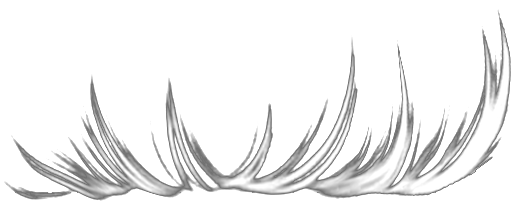
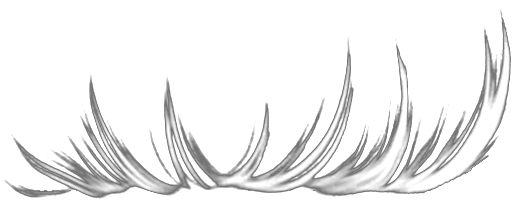
fix(ar): 글램 2.0 v16 — 꼬리 발산 해소(탈출 레일 하향 12° + 끝 기둥 테이퍼)
- v15 진단: rot_scale(텍스처 회전)은 잘못된 손잡이(70↔90% 차이 7°, 육안 무변별)
- 발산의 지배 요인 = 렌더러 꼬리 기하: 얕은 탈출 레일(출발점 높음) + 바깥-위 기둥
  + 풀 길이 → TailExitDropTan 0.21(하향 12°) + TailTaperCols 4(끝 기둥 0.55~1 점감)
- 텍스처는 rot 90% 산출본 유지(rootV 0.045), rot_scale 손잡이는 추출기에 보존

diff --git a/apps/unity/MakeupAR/Assets/Scripts/MediaPipeGraft/ARwithFable/Face/LashRenderer.cs b/apps/unity/MakeupAR/Assets/Scripts/MediaPipeGraft/ARwithFable/Face/LashRenderer.cs
@@ -125,7 +125,11 @@ namespace ARMakeup.Face
         // 텍스처의 뿌리줄은 v=rootV(추출기 lash_extract.py 사이드카 JSON의 rootV)이고,
         // 리본을 눈 라인 밖으로 len×rootV만큼 연장해 그 줄이 정확히 눈 라인에 오게 한다.
         // 재추출 시 사이드카 값으로 갱신할 것(tools/glam2-lash/out/lash_glam_*.json).
-        const float UpperTexRootV = 0.0446f; // 0723 위 초록선(펜연장 32°)+국소 회전 재산출값
+        // 위 리본 꼬리 발산 억제(0723 v15 사용자 판정) — 탈출 레일 하향 ≈12° + 끝 기둥 테이퍼.
+        const float TailExitDropTan = 0.21f; // 탈출 방향 하향(tan12°) — 클러스터 출발점 낮춤
+        const int TailTaperCols = 4;         // 꼬리쪽(c=0부터) 길이 테이퍼 기둥 수
+        const float TailTaperMin = 0.55f;    // 맨 끝 기둥 길이 배율(브로우 넘는 스파이크 차단)
+        const float UpperTexRootV = 0.045f; // 0723 위 초록선(펜연장 32°)+국소 회전 재산출값
         const float LowerTexRootV = 0.1f;    // 0723 급전환(틈 x=3113) 재산출값
         Mesh _texMesh;
         MeshRenderer _texRenderer;
@@ -241,17 +245,21 @@ namespace ARMakeup.Face
         /// 코너 최저점을 향해 급강하하는데, 실제 인조속눈썹 밴드는 그 지점에서 라인의
         /// 흐름(접선)대로 곧게 빠져나간다. 라이너 v5 코너 윙과 동일 취지(사용자 확정 형태).
         /// 코너 영향권 밖 접선으로 바깥쪽 점들을 점진 대체(간격 유지 → u 매핑 보존).</summary>
-        void TailTangentExit()
+        void TailTangentExit(float dropTan = 0f)
         {
             // v9 실패 교훈(픽셀 diff 270px = 사실상 무변화): ①블렌드가 교정을 희석
             // ②구간(5점)이 급강하 몸통(~8점)보다 짧음 ③접선 측정점(5~8)이 이미 꺾인 구간.
             // → 구간 8점, 접선은 코너 영향권 밖(8~12)에서 측정, 블렌드 없이 통째 교체.
+            // dropTan: 탈출 방향 하향 바이어스(+y) — 원본 밴드는 꼬리에서 32~42° 급강하해
+            // 클러스터를 낮게 데려가는데 접선 그대로면 출발점이 높아 꼬리가 위로 발산
+            // (사용자 판정 0723 v15). 위 리본만 사용, 아래는 0.
             const int Pivot = 8;
             var d = (_lash[Pivot] - _lash[Pivot + 4]).normalized; // 안 꺾인 구간의 진행 방향
+            if (dropTan != 0f) d = (d + new Vector2(0f, dropTan)).normalized;
             for (var i = Pivot - 1; i >= 0; i--)
             {
                 var step = (_lash[i] - _lash[i + 1]).magnitude;   // 원래 점 간격 유지
-                _lash[i] = _lash[i + 1] + d * step;               // 가던 방향 그대로 직진
+                _lash[i] = _lash[i + 1] + d * step;               // 가던 방향(+하향) 직진
             }
         }
 
@@ -578,7 +586,7 @@ namespace ARMakeup.Face
                 // 오버플로해 매 프레임 IndexOutOfRange로 상단 리본을 무력화 → 제거. 꼬리 연장은
                 // 새 래시 아키텍처(실제 속눈썹 증폭)에서 배열 크기와 함께 제대로 재구현할 것.)
                 SubdivideArc(_ctrl, LidPts, _lash);
-                TailTangentExit(); // 눈꼬리 급강하 제거 — 뿌리선이 접선으로 빠져나감
+                TailTangentExit(TailExitDropTan); // 접선 탈출 + 하향(발산 억제)
 
                 // 종횡비 잠금 — 리본 높이 = 눈폭 × 도안(h/w). 가로·세로가 같은 비율로
                 // 줄어 도안의 털 각도가 수학적으로 보존된다(비등방 축소가 모든 각도를
@@ -597,8 +605,11 @@ namespace ARMakeup.Face
                     // 뿌리 턱(슬리버 제거) + 뿌리줄 오프셋: 텍스처 v=RootV 줄이 눈 라인에
                     // 오도록 v0 변을 len×RootV만큼 라인 아래로 내림(처지는 꼬리 결 표현).
                     var root = _lash[c] - n * (eyeDist * RibbonRootTuck + len * UpperTexRootV);
-                    // 컬럼 길이 균일 — 길이·각도 프로파일은 도안이 소유.
-                    var lashLen = len;
+                    // 컬럼 길이 균일 — 단, 꼬리 끝(c<TailTaperCols)만 점감(발산 스파이크 차단).
+                    var taper = c < TailTaperCols
+                        ? Mathf.Lerp(TailTaperMin, 1f, c / (float)TailTaperCols)
+                        : 1f;
+                    var lashLen = len * taper;
                     var top = root + n * lashLen;
                     _texVertices[baseV + c * 2] = ImageToWorld(root, depth);
                     _texVertices[baseV + c * 2 + 1] = ImageToWorld(top, depth);

diff --git a/tools/glam2-lash/lash_extract.py b/tools/glam2-lash/lash_extract.py
@@ -32,6 +32,7 @@ SOURCES = {
         box=(565, 30, 1140, 290), flip=False, gap_frac=0.0,
         ann_dx=25,   # x0 590→565 잘림 방지(검증기 적발). 주석은 옛 박스 기준 → +25px 이동
         tail_refit=0.55, pen_extend=True,  # 꼬리: 펜 끝(67%)부터 32° 연장(승인 초록선 0723)
+        rot_scale=0.9,                     # 꼬리 세움 배율 — v14 100%는 과교정(솟구침)
         min_cover=0.45),                   # 꼬리 연장 구간 제외 후 재측정 기준
     "lower": dict(
         src=REFS / "속눈썹 샘플/1a9bec9d78817015ce809bdc9b3d63a6.jpg",
@@ -180,7 +181,7 @@ def tail_band_refit(a, root_y, start_frac):
     return out
 
 
-def hybrid_flatten(a, root_y, start_frac):
+def hybrid_flatten(a, root_y, start_frac, rot_scale=1.0):
     """shift+꼬리 국소 회전 하이브리드(승인 0723) — '미끄럼틀과 막대기' 문제 해결.
 
     수직 시프트는 절대각을 보존해, 42° 밴드에 나란히 눕던 꼬리 가닥이 펴는 순간
@@ -207,8 +208,10 @@ def hybrid_flatten(a, root_y, start_frac):
     win = max(int(w * 0.05), 4)
     seg = a[:, max(x0 - win, 0): x0 + win].sum(axis=0)
     x_gap = max(x0 - win, 0) + int(np.argmin(seg))
-    blend = np.clip((np.arange(w) - x_gap) / max(w * 0.025, 2.0), 0, 1)
-    print(f"  회전 전환: 틈 x={x_gap}/{w}(창내 잉크최소), 램프 폭 2.5%")
+    # rot_scale: 회전 상한 다이얼(0=시프트, 1=밴드 기울기 100%). v14 과교정(전부 기립,
+    # 늘어지는 꼬리 성격 소실 — 사용자 판정)의 절충용. 위 도안은 부분 세움을 쓴다.
+    blend = np.clip((np.arange(w) - x_gap) / max(w * 0.025, 2.0), 0, 1) * rot_scale
+    print(f"  회전 전환: 틈 x={x_gap}/{w}, 램프 2.5%, 회전 배율 {rot_scale:.0%}")
     rx = nx * blend
     ryv = -1.0 * (1 - blend) + ny * blend         # 수직↔법선 블렌드
     norm = np.sqrt(rx * rx + ryv * ryv)
@@ -403,7 +406,8 @@ def main():
                 root_y = tail_band_refit(a, root_y, cfg["tail_refit"])  # 아래: 70%부터 42°
             if cfg.get("tail_refit"):
                 # 꼬리 국소 회전(승인 0723) — 중앙은 shift와 동일, 꼬리만 밴드와 함께 회전
-                flat, root_row = hybrid_flatten(a, root_y, cfg["tail_refit"])
+                flat, root_row = hybrid_flatten(
+                    a, root_y, cfg["tail_refit"], cfg.get("rot_scale", 1.0))
             else:
                 # 전면 언롤은 기각(사용자 0723) → shift 유지
                 flat, root_row = straighten(a, root_y)
